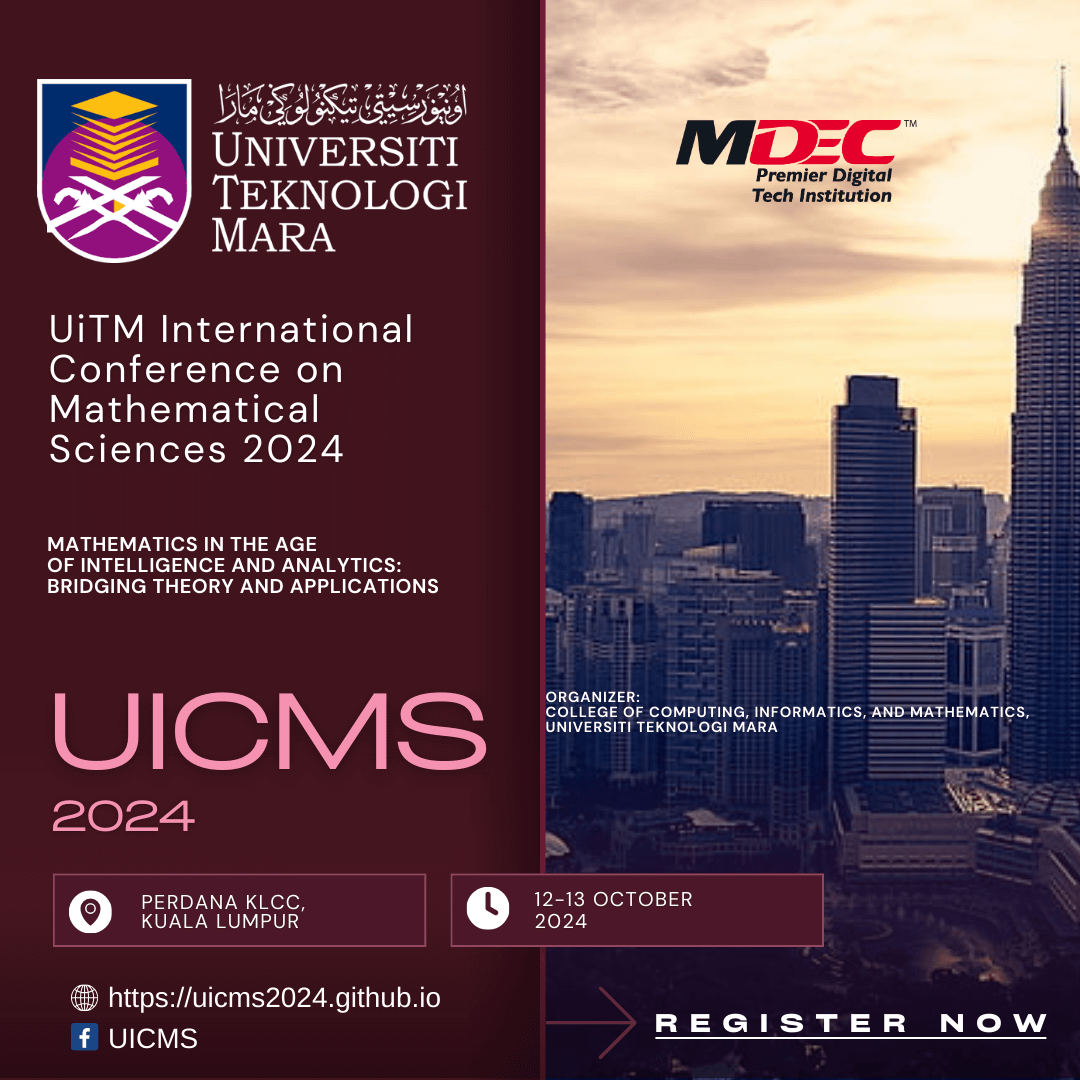
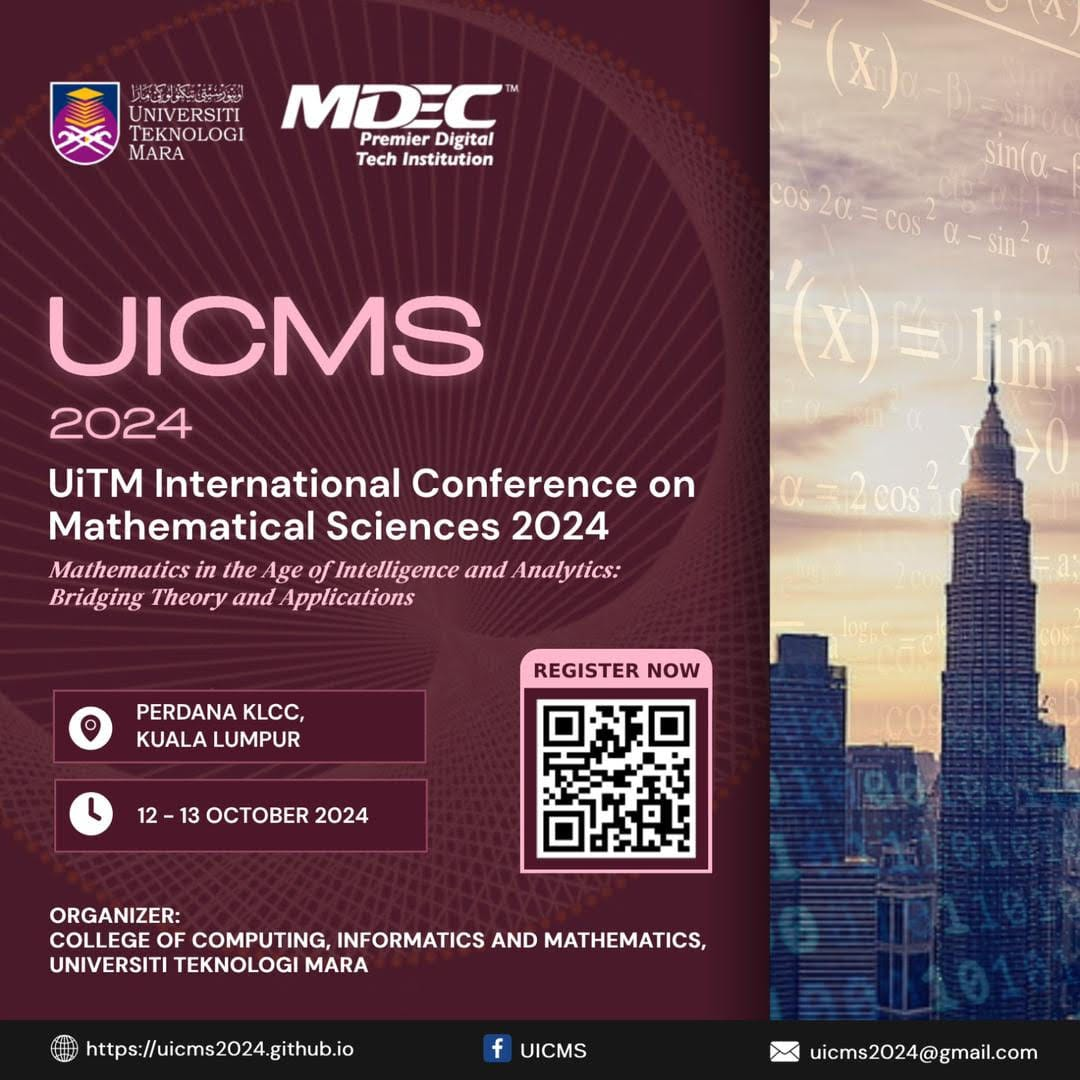
update fees, new manuscript template, make poster max-width:800px;

diff --git a/src/app/home/home.component.html b/src/app/home/home.component.html
@@ -163,10 +163,10 @@
           <img
             src="../assets/keynotes/Rasulov_Tolqin_Husenovich.png"
             class="card-img-top"
-            alt="Assoc. Prof. DSc. Rasulov Tulkin Husenovich"
+            alt="Prof. Dr. Rasulov Tulkin Husenovich"
           />
           <div class="card-body">
-            <h6>Assoc. Prof. DSc. Rasulov Tulkin Husenovich</h6>
+            <h6>Prof. Dr. Rasulov Tulkin Husenovich</h6>
             <div class="card-text">
               <p class="card-text">Bukhara State University</p>
             </div>
@@ -214,10 +214,10 @@
           <img
             src="../assets/keynotes/nanang.png"
             class="card-img-top"
-            alt="Dr. Nanang Susyanto"
+            alt="Assoc. Prof. Dr. Nanang Susyanto"
           />
           <div class="card-body">
-            <h6>Dr. Nanang Susyanto</h6>
+            <h6>Assoc. Prof. Dr. Nanang Susyanto</h6>
             <div class="card-text">
               <p class="card-text">Universitas Gadjah Mada</p>
             </div>

diff --git a/src/app/dates/dates.component.html b/src/app/dates/dates.component.html
@@ -26,14 +26,14 @@
         <td>Notification of Acceptance</td>
         <td>Within two (2) weeks of submission</td>
       </tr>
-      <tr>
+      <!-- <tr>
         <td>Final Decision on Paper Acceptance for Publication</td>
         <td>Before or by 15 June 2024</td>
-      </tr>
-      <tr>
+      </tr> -->
+      <!-- <tr>
         <td>Registration and Payment Deadline <br>(No refund after payment deadline)</td>
         <td>24 June 2024</td>
-      </tr>
+      </tr> -->
       <tr>
         <td>Camera Ready (Final Version)</td>
         <td>1 July 2024</td>
@@ -41,7 +41,8 @@
       <tr>
         <td>Payment Deadline</td>
         <td>Presenter: 24 June 2024<br>
-            Participant: 18 September 2024
+            Participant: 18 September 2024<br><br>
+            (No refund after payment deadline)
         </td>
       </tr>     
       <tr>

diff --git a/src/app/publication/publication.component.html b/src/app/publication/publication.component.html
@@ -3,9 +3,10 @@
   <div class="row">
     <div class="col-md-12">
       <p>
-        The conference offers three esteemed publication options: inclusion in
+        Accepted papers will undergo reviews to be considered for presentation in the conference and to be recommended for publication in either Scopus/WoS indexed proceedings, MyCite journal, or in Scopus/WoS indexed journal subject to the publication guidelines.
+        <!-- The conference offers three esteemed publication options: inclusion in
         our conference proceedings, submission to MyCite Journals, and the
-        possibility of being published in respected WoS/Scopus Indexed Journals.
+        possibility of being published in respected WoS/Scopus Indexed Journals. -->
       </p>
       <p class="mt-4">
         Following submission through EDAS and a preliminary review, author(s)

diff --git a/src/app/fees/fees.component.html b/src/app/fees/fees.component.html
@@ -16,17 +16,27 @@
         </td>
       </tr>
       <tr>
-        <td>Additional Paper</td>
-        <td>USD100 (MYR400)</td>
+        <td>Additional Paper<br>
+        (max two (2) papers)
+        </td>
+        <td>USD135 (MYR650)</td>
       </tr>
       <tr>
-        <td>Participant</td>
-        <td>USD100 (MYR400)</td>
+        <td>Additional Pages<br>
+        (rate per page)
+        </td>
+        <td>USD25 (MYR125)</td>
       </tr>
       <tr>
+        <td>Participant<br>
+          (Physical/Virtual)
+        </td>
+        <td>USD100 (MYR400)</td>
+      </tr>
+      <!-- <tr>
         <td>Poster</td>
         <td>USD100 (MYR400)</td>
-      </tr>
+      </tr> -->
     </tbody>
   </table>
 

diff --git a/src/app/committee/committee.component.html b/src/app/committee/committee.component.html
@@ -236,7 +236,7 @@
     <div class="col-md-4">
       <div class="card">
         <div class="card-body">
-          <h5 class="card-title">Scientific Papers and Abstract</h5>
+          <h5 class="card-title">Publications</h5>
           <ul class="list-group list-group-flush">
             <li class="list-group-item">Associate Professor Ts. Dr. Adibah Shuib</li>
             <li class="list-group-item">Associate Professor Dr. Seripah Awang Kechil</li>

diff --git a/src/app/cfp/cfp.component.html b/src/app/cfp/cfp.component.html
@@ -31,6 +31,6 @@
   </div>
 
   <div class="row">
-    <img src="/assets/poster1080x1080.png" class="img-fluid" alt="{{confAbbrev}}" />
+    <a href="/assets/poster1080x1080.png"><img src="/assets/poster1080x1080.png" class="img-fluid" alt="{{confAbbrev}}" style="max-width: 800px;" /></a>
   </div>
 </div>
